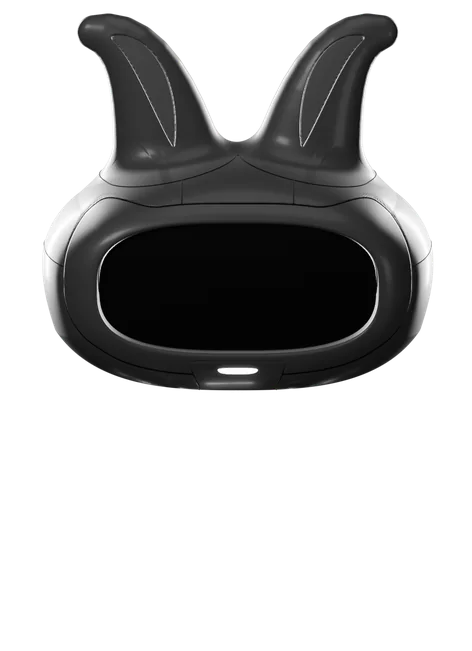
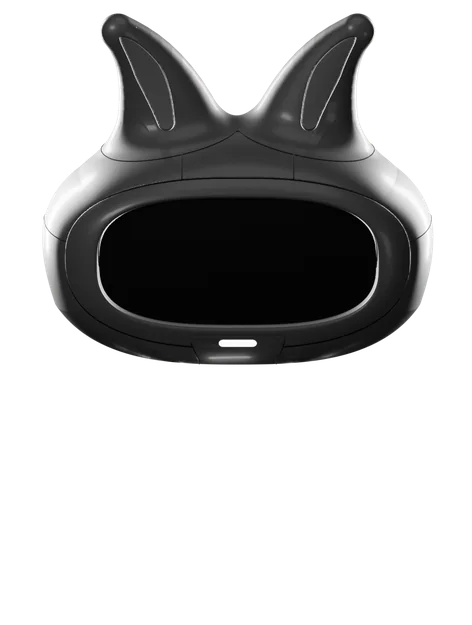
Give Milo the concept's oval face seam round his visor, horn ears that curve outward to rounded tips with broad dark panels, boots whose upright shaft steps down into a domed toe, and a chest light that glows like his chin light.
The lower ear tips make the renders 874 x 1158, so the figure numbers, the stylesheets that repeat them and the image sizes hints move with them.

Changed region(s): [[0.089, 0.0, 0.9195, 0.608]]

diff --git a/src/components/site/Milo.module.css b/src/components/site/Milo.module.css
@@ -1,9 +1,9 @@
 /* Milo and the course line he sits on. The figure is two Blender renders; only his eyes, the line and its ticks are drawn
    here, all in the site's neutrals, with the labs' orange kept for the one tick that's next. */
 
-.figure { position: relative; aspect-ratio: 874 / 1205; pointer-events: none; -webkit-user-select: none; user-select: none; }
+.figure { position: relative; aspect-ratio: 874 / 1158; pointer-events: none; -webkit-user-select: none; user-select: none; }
 .layer { position: absolute; inset: 0; display: block; width: 100%; height: 100%; }
-.head { position: absolute; inset: 0; transform: translate(var(--hx, 0%), var(--hy, 0%)) rotate(var(--tilt, 0deg)); transform-origin: 50.374% 55.393%; }
+.head { position: absolute; inset: 0; transform: translate(var(--hx, 0%), var(--hy, 0%)) rotate(var(--tilt, 0deg)); transform-origin: 50.374% 53.582%; }
 .breath { position: absolute; inset: 0; }
 .eyes { position: absolute; inset: 0; width: 100%; height: 100%; overflow: visible; }
 .gaze { transform: translate(var(--gx, 0px), var(--gy, 0px)); }

diff --git a/src/components/site/MiloHome.tsx b/src/components/site/MiloHome.tsx
@@ -27,8 +27,8 @@ const lessons = (count: number) => `${count} ${count === 1 ? "lesson" : "lessons
 // How much of the figure's width his body takes up at the line, which is what has to stay on the stage.
 // His head is the widest part of him, and it all has to stay on the stage and clear of the words.
 const HEAD_SHARE = 0.42;
-// His width on screen: his height times 874/1205, from the stage's --milo-h on each layout.
-const FIGURE_SIZES = "(min-width: 960px) and (min-height: 600px) min(41vh, 29vw), (max-height: 599px) and (min-width: 640px) min(57vh, 29vw), min(26vh, 64vw, 276px)";
+// His width on screen: his height times 874/1158, from the stage's --milo-h on each layout.
+const FIGURE_SIZES = "(min-width: 960px) and (min-height: 600px) min(42vh, 30vw), (max-height: 599px) and (min-width: 640px) min(59vh, 30vw), min(27vh, 66vw, 287px)";
 
 // When the course line can't run, or without JavaScript, everything below the words lies flat and the chapter list shows.
 const FLAT_PAGE = "[data-home-scene],[data-home-goal],[data-home-bubble]{display:none!important}"

diff --git a/src/components/site/MiloHome.module.css b/src/components/site/MiloHome.module.css
@@ -34,7 +34,7 @@
 .stage {
   --edge: 16px;
   --milo-h: min(36svh, 88vw, 380px);
-  --milo-w: calc(var(--milo-h) * 874 / 1205);
+  --milo-w: calc(var(--milo-h) * 874 / 1158);
   --legs: calc(var(--milo-h) * .16);
   --line-l: var(--edge);
   position: relative;
@@ -52,7 +52,7 @@
 /* Milo, his line, and what he says. --seat-x is where he sits, from the stage's left edge; until the page knows the
    visitor's next lesson, he sits at the first. */
 .scene {
-  --line-y: calc(var(--milo-h) * .85881 + 4px);
+  --line-y: calc(var(--milo-h) * .8533 + 4px);
   position: relative;
   flex: none;
   height: calc(var(--line-y) + var(--legs) + 86px);
@@ -63,7 +63,7 @@
 .parts { top: calc(var(--line-y) + var(--legs) + 10px); left: var(--line-l); right: var(--edge); }
 .seat {
   position: absolute;
-  top: calc(var(--line-y) - var(--milo-h) * .85881);
+  top: calc(var(--line-y) - var(--milo-h) * .8533);
   left: 0;
   z-index: 2;
   width: var(--milo-w);

diff --git a/src/lib/milo-figure.ts b/src/lib/milo-figure.ts
@@ -4,18 +4,18 @@
 
 export const MILO = {
   width: 874,
-  height: 1205,
+  height: 1158,
   /** Width of the smaller layers, for phones. */
   small: 472,
   /** The middle of the seat, on the front edge of the ledge he sits on. */
-  seat: [0.5, 0.85881],
+  seat: [0.5, 0.8533],
   /** His eyes, left then right on the image, as ellipses on his face's screen. */
   eyes: [
-    { x: 0.37922, y: 0.43585, rx: 0.03683, ry: 0.04364 },
-    { x: 0.62826, y: 0.43585, rx: 0.03683, ry: 0.04364 },
+    { x: 0.37922, y: 0.41295, rx: 0.03683, ry: 0.04541 },
+    { x: 0.62826, y: 0.41295, rx: 0.03683, ry: 0.04541 },
   ],
   /** The screen his eyes are drawn on. */
-  display: { x: 0.50374, y: 0.43949, rx: 0.2938, ry: 0.0992 },
+  display: { x: 0.50374, y: 0.41674, rx: 0.2938, ry: 0.10322 },
   /** Where the head turns on the neck. */
-  neck: [0.50374, 0.55393],
+  neck: [0.50374, 0.53582],
 } as const;

diff --git a/src/components/site/CourseNav.module.css b/src/components/site/CourseNav.module.css
@@ -3,9 +3,9 @@
 
 .scene {
   --milo-h: clamp(230px, 30vw, 330px);
-  --milo-w: calc(var(--milo-h) * 874 / 1205);
+  --milo-w: calc(var(--milo-h) * 874 / 1158);
   --legs: calc(var(--milo-h) * .16);
-  --line-y: calc(var(--milo-h) * .85881 + 8px);
+  --line-y: calc(var(--milo-h) * .8533 + 8px);
   position: relative;
   min-width: 0;
   height: calc(var(--line-y) + var(--legs) + 78px);
@@ -15,7 +15,7 @@
 .partsBox { top: calc(var(--line-y) + var(--legs) + 10px); right: 0; left: 0; }
 .seat {
   position: absolute;
-  top: calc(var(--line-y) - var(--milo-h) * .85881);
+  top: calc(var(--line-y) - var(--milo-h) * .8533);
   left: 0;
   z-index: 2;
   width: var(--milo-w);

diff --git a/src/components/site/CourseMap.tsx b/src/components/site/CourseMap.tsx
@@ -163,7 +163,7 @@ function CourseLine(props: CourseNavProps) {
           partsClassName={navStyles.partsBox}
         />
         <div className={navStyles.seat}>
-          <MiloFigure figureRef={figure} className={navStyles.figure} sizes="clamp(167px, 22vw, 239px)" />
+          <MiloFigure figureRef={figure} className={navStyles.figure} sizes="clamp(174px, 23vw, 249px)" />
         </div>
       </div>
 

diff --git a/docs/design-system.md b/docs/design-system.md
@@ -55,7 +55,7 @@ Charts use blue for successful work and orange for offered load, with validated 
 
 Milo is the site's character: a small robot with a screen for a face, sitting on the course line. He's original to SystemKit, designed from concept art and built in Blender, and he stays in the site's neutrals: white satin in the light theme, charcoal in the dark, with only his eyes and the little lights on his chin and chest glowing. The page shows him as two Cycles renders, his body (with the ledge's contact shadow folded in) and his head, each a WebP of a few tens of kilobytes in each theme, chosen by `prefers-color-scheme`. His face's screen is left blank in the renders and his eyes are drawn on it by the page, so they can blink, look at the pointer or at whatever the page is pointing at, squint happily when the main action is pointed at, and open for the dive. His head leans a little after his eyes and he breathes; all of it is a transform or a CSS variable, it stops when he's off screen or nothing has happened for 45 seconds, and none of it runs for anyone who prefers reduced motion. Where he sits on the line is a transform too, so moving him never shifts the layout.
 
-His shape follows the concept art. His head is tall and round, its cheeks curving round his screen, and its crown grows two thick horn-like ears. Each ear curls out at the tip, with a dark crescent along its inner edge. The face is nearly flat across the screen and curves in one smooth sweep out to the cheeks and the crown. Its screen sits in a soft face plate that is part of the head, bounded by a fine grooved seam, with a grooved chin plate below holding the chin light. Short seams split the forehead under a crown line that runs along the ears' bases. His body is a bell-shaped torso with a flush shield on the chest. It has a dark neck in a collar well, dark shoulder joints set into its sides, and rounded arm shells with a dark elbow joint showing between them. His fists are white finger segments over a dark palm, and his short legs have dark knees seated in bell-shaped boots on dark soles. In the light theme he renders white under broad soft light. In the dark theme he is charcoal, with thin rim light tracing his outline. The visor is dark gloss glass, and the chin and chest lights glow.
+His shape follows the concept art. His head is tall and round, its cheeks curving round his screen, and its crown grows two thick horn-like ears that curve outward to rounded tips, each with a broad dark panel along it. The face is nearly flat across the screen and curves in one smooth sweep out to the cheeks and the crown. Its screen sits in a soft face plate that is part of the head, bounded by a fine grooved seam that runs round the screen as one symmetric oval, with a grooved chin plate below holding the chin light. Short seams split the forehead under a crown line that runs along the ears' bases. His body is a bell-shaped torso with a flush shield on the chest. It has a dark neck in a collar well, dark shoulder joints set into its sides, and rounded arm shells with a dark elbow joint showing between them. His fists are white finger segments over a dark palm, and his short legs have dark knees seated in boots whose upright shaft steps down into a domed toe, on dark soles. In the light theme he renders white under broad soft light. In the dark theme he is charcoal, with thin rim light tracing his outline. The visor is dark gloss glass, and the chin and chest lights glow.
 
 The sources are in the Milo project (`systemkit-milo`). `Milo-sitting-v2-light.blend` and `Milo-sitting-v2-dark.blend` hold the pose, the ledge as a shadow catcher, and the studio light. The `sitting` folder has the scripts that rebuild them, in order:
 1. `head.py`, `body.py` and `hand.py` build the head, the body and the left fist as signed-distance shapes, meshed with marching cubes (they need numpy and scikit-image). Their numbers are in `head.json`, `body.json` and `hand.json`. `body.json`'s `rig` moves the rig's bones to the concept's proportions (longer arms, shoulders tucked in, taller thighs); `rig.py` writes the hand bone's frame after that move to `rig.json`, which `hand.py` reads.
